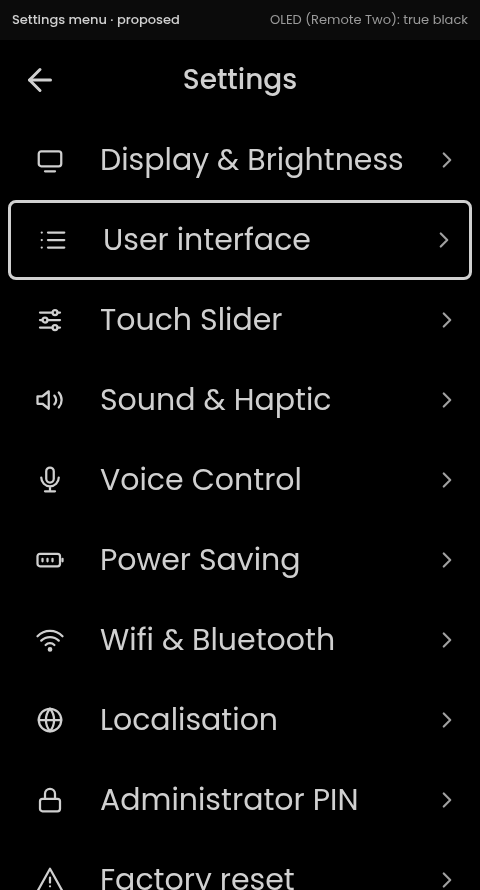
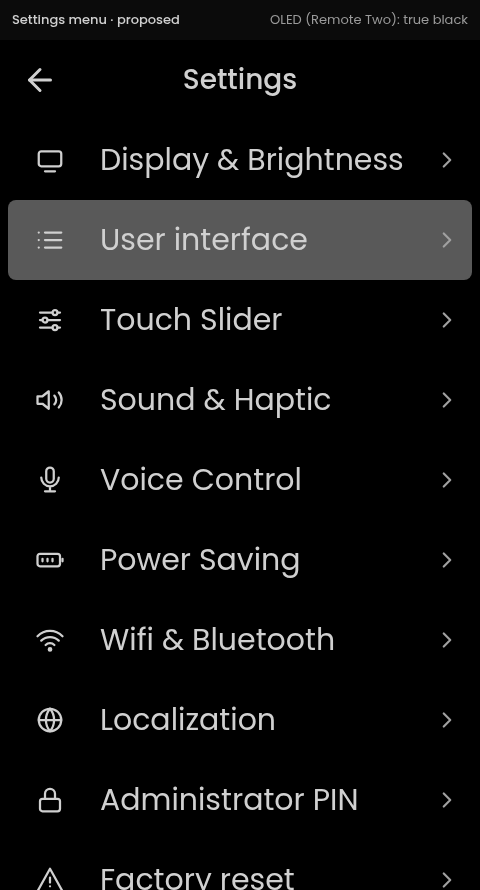
docs: fill in three menus, centred page selector
A review of the implemented selection styles found the ring in the
menus of the profile page, Settings and About harder to follow than the
fill of the main UI: their rows open a page, like a popup menu row, and
read better with the same fill.

The left-aligned page selector rows in the label role were too small
for what is the main way to switch pages. The page names stay centred,
now in the display role at 56 px, the smallest Light size the type
rules allow. The page selector also marks its current page with the
fill after a touch, the one exception to the keypad-active rule, so
the user sees which page is shown.

New mockups show the three menus and the page selector.

Changed region(s): [[0.0, 0.2124, 1.0, 0.3337], [0.375, 0.7888, 0.5938, 0.8191]]

diff --git a/docs/design-system/mockups/src/profile-menu-proposed.html b/docs/design-system/mockups/src/profile-menu-proposed.html
@@ -1,0 +1,88 @@
+<!doctype html>
+<html lang="en">
+<head>
+  <meta charset="utf-8">
+  <title>Profile menu, proposed</title>
+  <style>
+    body { margin: 0; background: #000000; }
+    a { color: #C8C8C8; } a:hover { color: #FFFFFF; }
+    * { box-sizing: border-box; }
+    .label-lcd { display: none; }
+    html.lcd .label-lcd { display: inline; }
+    html.lcd .label-oled { display: none; }
+    html.lcd .panel { filter: contrast(0.86) brightness(1.02); }
+  </style>
+  <script>if (/[?&]lcd\b/.test(location.search)) document.documentElement.classList.add('lcd');</script>
+</head>
+<body>
+<div style="width: 480px; display: flex; flex-direction: column; gap: 0; background: #000000;">
+  <div style="height: 40px; display: flex; align-items: center; justify-content: space-between; padding: 0 12px; background: #0B0B0B; font-family: Poppins, 'Segoe UI', Helvetica, Arial, sans-serif; font-size: 13px; color: #9A9A9A;">
+    <span style="font-weight: 500; color: #D0D0D0;">Profile menu · proposed</span>
+    <span class="label-oled">OLED (Remote Two): true black</span><span class="label-lcd">LCD simulation (Remote 3): raised black, softer white</span>
+  </div>
+  <div class="panel" style="background: #000000;">
+<div style="width: 480px; height: 850px; position: relative; overflow: hidden; background: #000000; font-family: Poppins, 'Segoe UI', Helvetica, Arial, sans-serif; color: #D0D0D0; display: flex; flex-direction: column;">
+<div style="height: 80px; flex: none; display: flex; align-items: center; position: relative;">
+<div style="width: 80px; height: 80px; display: flex; align-items: center; justify-content: center;"></div>
+<div style="position: absolute; left: 80px; right: 80px; text-align: center; font-size: 28px; font-weight: 500; color: #D0D0D0;"></div>
+<div style="width: 80px; height: 80px; margin-left: auto; display: flex; align-items: center; justify-content: center;"><svg width="36" height="36" viewBox="0 0 24 24" fill="none" stroke="#D0D0D0" stroke-width="2.4" stroke-linecap="round" style="flex: none; display: block;">
+<path d="M6 6l12 12M18 6L6 18"></path>
+</svg></div>
+</div>
+<div style="padding: 0 20px; font-size: 26px; color: #A0A0A0; flex: none;">Your current profile</div>
+<div style="height: 100px; flex: none; display: flex; align-items: center; gap: 24px; padding: 0 20px;">
+<div style="width: 50px; height: 50px; border-radius: 25px; background: #D0D0D0; color: #000; font-size: 30px; font-weight: 600; display: flex; align-items: center; justify-content: center;">?</div>
+<div style="font-size: 50px; color: #D0D0D0; flex: 1;">Kusi</div><svg width="26" height="26" viewBox="0 0 24 24" fill="none" stroke="#A0A0A0" stroke-width="2" stroke-linecap="round" stroke-linejoin="round" style="flex: none; display: block;">
+<path d="M9 6l6 6-6 6"></path>
+</svg>
+</div>
+<div style="margin: 0 20px 20px; padding: 20px; border: 2px solid #3A3A3A; border-radius: 8px; flex: none;">
+<div style="display: flex; align-items: center; gap: 16px;">
+<div style="font-size: 26px; color: #A0A0A0; flex: 1;">Web configurator enabled</div>
+<div style="width: 90px; height: 50px; border-radius: 25px; background: #2C2C2C; position: relative;">
+<div style="position: absolute; right: 5px; top: 5px; width: 40px; height: 40px; border-radius: 20px; background: #D0D0D0;"></div></div>
+</div>
+<div style="font-family: 'Space Mono', monospace; font-size: 26px; color: #D0D0D0; margin: 12px 0 16px; overflow-wrap: anywhere;">http://192.168.1.25/<wbr>configurator</div>
+<div style="display: flex; align-items: center; gap: 12px;"><div style="width: 44px; height: 60px; border: 2px solid #3A3A3A; border-radius: 8px; display: flex; align-items: center; justify-content: center; font-size: 26px; color: #D0D0D0;">•</div><div style="width: 44px; height: 60px; border: 2px solid #3A3A3A; border-radius: 8px; display: flex; align-items: center; justify-content: center; font-size: 26px; color: #D0D0D0;">•</div><div style="width: 44px; height: 60px; border: 2px solid #3A3A3A; border-radius: 8px; display: flex; align-items: center; justify-content: center; font-size: 26px; color: #D0D0D0;">•</div><div style="width: 44px; height: 60px; border: 2px solid #3A3A3A; border-radius: 8px; display: flex; align-items: center; justify-content: center; font-size: 26px; color: #D0D0D0;">•</div>
+<svg width="36" height="36" viewBox="0 0 24 24" fill="none" stroke="#A0A0A0" stroke-width="2.2" stroke-linecap="round" stroke-linejoin="round" style="flex: none; display: block; margin-left: 12px;"><path d="M20 12a8 8 0 11-2.3-5.7"></path><path d="M20 4v5h-5"></path></svg>
+<div style="flex: 1;"></div>
+<div style="display: grid; grid-template-columns: repeat(10, 6px);"><div style="width: 6px; height: 6px; background: #D0D0D0;"></div><div style="width: 6px; height: 6px; background: #000;"></div><div style="width: 6px; height: 6px; background: #D0D0D0;"></div><div style="width: 6px; height: 6px; background: #000;"></div><div style="width: 6px; height: 6px; background: #D0D0D0;"></div><div style="width: 6px; height: 6px; background: #D0D0D0;"></div><div style="width: 6px; height: 6px; background: #000;"></div><div style="width: 6px; height: 6px; background: #D0D0D0;"></div><div style="width: 6px; height: 6px; background: #000;"></div><div style="width: 6px; height: 6px; background: #D0D0D0;"></div><div style="width: 6px; height: 6px; background: #D0D0D0;"></div><div style="width: 6px; height: 6px; background: #D0D0D0;"></div><div style="width: 6px; height: 6px; background: #000;"></div><div style="width: 6px; height: 6px; background: #D0D0D0;"></div><div style="width: 6px; height: 6px; background: #000;"></div><div style="width: 6px; height: 6px; background: #D0D0D0;"></div><div style="width: 6px; height: 6px; background: #D0D0D0;"></div><div style="width: 6px; height: 6px; background: #000;"></div><div style="width: 6px; height: 6px; background: #D0D0D0;"></div><div style="width: 6px; height: 6px; background: #000;"></div><div style="width: 6px; height: 6px; background: #000;"></div><div style="width: 6px; height: 6px; background: #D0D0D0;"></div><div style="width: 6px; height: 6px; background: #D0D0D0;"></div><div style="width: 6px; height: 6px; background: #000;"></div><div style="width: 6px; height: 6px; background: #D0D0D0;"></div><div style="width: 6px; height: 6px; background: #000;"></div><div style="width: 6px; height: 6px; background: #D0D0D0;"></div><div style="width: 6px; height: 6px; background: #D0D0D0;"></div><div style="width: 6px; height: 6px; background: #000;"></div><div style="width: 6px; height: 6px; background: #D0D0D0;"></div><div style="width: 6px; height: 6px; background: #D0D0D0;"></div><div style="width: 6px; height: 6px; background: #000;"></div><div style="width: 6px; height: 6px; background: #D0D0D0;"></div><div style="width: 6px; height: 6px; background: #D0D0D0;"></div><div style="width: 6px; height: 6px; background: #000;"></div><div style="width: 6px; height: 6px; background: #D0D0D0;"></div><div style="width: 6px; height: 6px; background: #000;"></div><div style="width: 6px; height: 6px; background: #D0D0D0;"></div><div style="width: 6px; height: 6px; background: #D0D0D0;"></div><div style="width: 6px; height: 6px; background: #000;"></div><div style="width: 6px; height: 6px; background: #000;"></div><div style="width: 6px; height: 6px; background: #D0D0D0;"></div><div style="width: 6px; height: 6px; background: #000;"></div><div style="width: 6px; height: 6px; background: #D0D0D0;"></div><div style="width: 6px; height: 6px; background: #D0D0D0;"></div><div style="width: 6px; height: 6px; background: #000;"></div><div style="width: 6px; height: 6px; background: #D0D0D0;"></div><div style="width: 6px; height: 6px; background: #000;"></div><div style="width: 6px; height: 6px; background: #D0D0D0;"></div><div style="width: 6px; height: 6px; background: #D0D0D0;"></div><div style="width: 6px; height: 6px; background: #D0D0D0;"></div><div style="width: 6px; height: 6px; background: #000;"></div><div style="width: 6px; height: 6px; background: #D0D0D0;"></div><div style="width: 6px; height: 6px; background: #000;"></div><div style="width: 6px; height: 6px; background: #D0D0D0;"></div><div style="width: 6px; height: 6px; background: #D0D0D0;"></div><div style="width: 6px; height: 6px; background: #000;"></div><div style="width: 6px; height: 6px; background: #D0D0D0;"></div><div style="width: 6px; height: 6px; background: #000;"></div><div style="width: 6px; height: 6px; background: #D0D0D0;"></div><div style="width: 6px; height: 6px; background: #D0D0D0;"></div><div style="width: 6px; height: 6px; background: #D0D0D0;"></div><div style="width: 6px; height: 6px; background: #000;"></div><div style="width: 6px; height: 6px; background: #D0D0D0;"></div><div style="width: 6px; height: 6px; background: #000;"></div><div style="width: 6px; height: 6px; background: #D0D0D0;"></div><div style="width: 6px; height: 6px; background: #D0D0D0;"></div><div style="width: 6px; height: 6px; background: #000;"></div><div style="width: 6px; height: 6px; background: #D0D0D0;"></div><div style="width: 6px; height: 6px; background: #000;"></div><div style="width: 6px; height: 6px; background: #000;"></div><div style="width: 6px; height: 6px; background: #D0D0D0;"></div><div style="width: 6px; height: 6px; background: #D0D0D0;"></div><div style="width: 6px; height: 6px; background: #000;"></div><div style="width: 6px; height: 6px; background: #D0D0D0;"></div><div style="width: 6px; height: 6px; background: #000;"></div><div style="width: 6px; height: 6px; background: #D0D0D0;"></div><div style="width: 6px; height: 6px; background: #D0D0D0;"></div><div style="width: 6px; height: 6px; background: #000;"></div><div style="width: 6px; height: 6px; background: #D0D0D0;"></div><div style="width: 6px; height: 6px; background: #D0D0D0;"></div><div style="width: 6px; height: 6px; background: #000;"></div><div style="width: 6px; height: 6px; background: #D0D0D0;"></div><div style="width: 6px; height: 6px; background: #D0D0D0;"></div><div style="width: 6px; height: 6px; background: #000;"></div><div style="width: 6px; height: 6px; background: #D0D0D0;"></div><div style="width: 6px; height: 6px; background: #000;"></div><div style="width: 6px; height: 6px; background: #D0D0D0;"></div><div style="width: 6px; height: 6px; background: #D0D0D0;"></div><div style="width: 6px; height: 6px; background: #000;"></div><div style="width: 6px; height: 6px; background: #000;"></div><div style="width: 6px; height: 6px; background: #D0D0D0;"></div><div style="width: 6px; height: 6px; background: #000;"></div><div style="width: 6px; height: 6px; background: #D0D0D0;"></div><div style="width: 6px; height: 6px; background: #D0D0D0;"></div><div style="width: 6px; height: 6px; background: #000;"></div><div style="width: 6px; height: 6px; background: #D0D0D0;"></div><div style="width: 6px; height: 6px; background: #000;"></div><div style="width: 6px; height: 6px; background: #D0D0D0;"></div><div style="width: 6px; height: 6px; background: #D0D0D0;"></div></div>
+</div>
+</div>
+<div style="display: flex; flex-direction: column; flex: 1; overflow: hidden;">
+<div style="height: 80px; flex: none; display: flex; align-items: center; gap: 16px; border-radius: 8px; margin: 0 8px; padding: 0 12px; background: #595959;">
+<div style="font-size: 30px; color: #D0D0D0;">Software update</div>
+<div style="flex: 1;"></div><svg width="26" height="26" viewBox="0 0 24 24" fill="none" stroke="#A0A0A0" stroke-width="2" stroke-linecap="round" stroke-linejoin="round" style="flex: none; display: block;">
+<path d="M9 6l6 6-6 6"></path>
+</svg>
+</div>
+<div style="height: 80px; flex: none; display: flex; align-items: center; gap: 16px; border-radius: 8px; margin: 0 8px; padding: 0 12px; background: transparent;">
+<div style="font-size: 30px; color: #D0D0D0;">Settings</div>
+<div style="flex: 1;"></div><svg width="26" height="26" viewBox="0 0 24 24" fill="none" stroke="#A0A0A0" stroke-width="2" stroke-linecap="round" stroke-linejoin="round" style="flex: none; display: block;">
+<path d="M9 6l6 6-6 6"></path>
+</svg>
+</div>
+<div style="height: 80px; flex: none; display: flex; align-items: center; gap: 16px; border-radius: 8px; margin: 0 8px; padding: 0 12px; background: transparent;">
+<div style="font-size: 30px; color: #D0D0D0;">Integrations</div><div style="min-width: 40px; height: 40px; padding: 0 10px; border-radius: 20px; background: #3A3A3A; font-size: 22px; display: flex; align-items: center; justify-content: center; color: #D0D0D0;">16</div>
+<div style="flex: 1;"></div><svg width="26" height="26" viewBox="0 0 24 24" fill="none" stroke="#A0A0A0" stroke-width="2" stroke-linecap="round" stroke-linejoin="round" style="flex: none; display: block;">
+<path d="M9 6l6 6-6 6"></path>
+</svg>
+</div>
+<div style="height: 80px; flex: none; display: flex; align-items: center; gap: 16px; border-radius: 8px; margin: 0 8px; padding: 0 12px; background: transparent;">
+<div style="font-size: 30px; color: #D0D0D0;">Docks</div><div style="min-width: 40px; height: 40px; padding: 0 10px; border-radius: 20px; background: #3A3A3A; font-size: 22px; display: flex; align-items: center; justify-content: center; color: #D0D0D0;">3</div>
+<div style="flex: 1;"></div><svg width="26" height="26" viewBox="0 0 24 24" fill="none" stroke="#A0A0A0" stroke-width="2" stroke-linecap="round" stroke-linejoin="round" style="flex: none; display: block;">
+<path d="M9 6l6 6-6 6"></path>
+</svg>
+</div>
+<div style="height: 80px; flex: none; display: flex; align-items: center; gap: 16px; border-radius: 8px; margin: 0 8px; padding: 0 12px; background: transparent;">
+<div style="font-size: 30px; color: #D0D0D0;">About</div>
+<div style="flex: 1;"></div><svg width="26" height="26" viewBox="0 0 24 24" fill="none" stroke="#A0A0A0" stroke-width="2" stroke-linecap="round" stroke-linejoin="round" style="flex: none; display: block;">
+<path d="M9 6l6 6-6 6"></path>
+</svg>
+</div>
+</div>
+</div>
+  </div>
+</div>
+</body>
+</html>

diff --git a/docs/design-system/mockups/src/about-proposed.html b/docs/design-system/mockups/src/about-proposed.html
@@ -1,0 +1,81 @@
+<!doctype html>
+<html lang="en">
+<head>
+  <meta charset="utf-8">
+  <title>About, proposed</title>
+  <style>
+    body { margin: 0; background: #000000; }
+    a { color: #C8C8C8; } a:hover { color: #FFFFFF; }
+    * { box-sizing: border-box; }
+    .label-lcd { display: none; }
+    html.lcd .label-lcd { display: inline; }
+    html.lcd .label-oled { display: none; }
+    html.lcd .panel { filter: contrast(0.86) brightness(1.02); }
+  </style>
+  <script>if (/[?&]lcd\b/.test(location.search)) document.documentElement.classList.add('lcd');</script>
+</head>
+<body>
+<div style="width: 480px; display: flex; flex-direction: column; gap: 0; background: #000000;">
+  <div style="height: 40px; display: flex; align-items: center; justify-content: space-between; padding: 0 12px; background: #0B0B0B; font-family: Poppins, 'Segoe UI', Helvetica, Arial, sans-serif; font-size: 13px; color: #9A9A9A;">
+    <span style="font-weight: 500; color: #D0D0D0;">About · proposed</span>
+    <span class="label-oled">OLED (Remote Two): true black</span><span class="label-lcd">LCD simulation (Remote 3): raised black, softer white</span>
+  </div>
+  <div class="panel" style="background: #000000;">
+<div style="width: 480px; height: 850px; position: relative; overflow: hidden; background: #000000; font-family: Poppins, 'Segoe UI', Helvetica, Arial, sans-serif; color: #D0D0D0; display: flex; flex-direction: column;">
+<div style="height: 80px; flex: none; display: flex; align-items: center; position: relative;">
+<div style="width: 80px; height: 80px; display: flex; align-items: center; justify-content: center;"><svg width="36" height="36" viewBox="0 0 24 24" fill="none" stroke="#D0D0D0" stroke-width="2" stroke-linecap="round" stroke-linejoin="round" style="flex: none; display: block;">
+<path d="M19 12H5"></path>
+<path d="M12 19l-7-7 7-7"></path>
+</svg></div>
+<div style="position: absolute; left: 80px; right: 80px; text-align: center; font-size: 28px; font-weight: 500; color: #D0D0D0;">About</div>
+<div style="width: 80px; height: 80px; margin-left: auto; display: flex; align-items: center; justify-content: center;"></div>
+</div><div style="display: flex; flex-direction: column; flex: 1; overflow: hidden;"><div style="padding: 8px 20px; flex: none; display: flex; align-items: center; gap: 20px;">
+<div style="font-size: 26px; line-height: 40px; color: #A0A0A0; flex: none;">Model number</div>
+<div style="font-family: 'Space Mono', monospace; font-size: 26px; line-height: 39px; color: #D0D0D0; flex: 1; text-align: right; white-space: nowrap; overflow: hidden; text-overflow: ellipsis;">UCR3</div>
+</div><div style="height: 2px; flex: none; margin: 0 20px; background: #3A3A3A;"></div><div style="padding: 8px 20px; flex: none; display: flex; align-items: center; gap: 20px;">
+<div style="font-size: 26px; line-height: 40px; color: #A0A0A0; flex: none;">Serial number</div>
+<div style="font-family: 'Space Mono', monospace; font-size: 26px; line-height: 39px; color: #D0D0D0; flex: 1; text-align: right; white-space: nowrap; overflow: hidden; text-overflow: ellipsis;">61D2X4K8</div>
+</div><div style="height: 2px; flex: none; margin: 0 20px; background: #3A3A3A;"></div><div style="padding: 8px 20px; flex: none; display: flex; align-items: center; gap: 20px;">
+<div style="font-size: 26px; line-height: 40px; color: #A0A0A0; flex: none;">Revision</div>
+<div style="font-family: 'Space Mono', monospace; font-size: 26px; line-height: 39px; color: #D0D0D0; flex: 1; text-align: right; white-space: nowrap; overflow: hidden; text-overflow: ellipsis;">rev3</div>
+</div><div style="height: 2px; flex: none; margin: 0 20px; background: #3A3A3A;"></div><div style="padding: 8px 20px; flex: none;">
+<div style="font-size: 26px; line-height: 40px; color: #A0A0A0;">Wi-Fi address</div>
+<div style="font-family: 'Space Mono', monospace; font-size: 26px; line-height: 39px; color: #D0D0D0; margin-top: 4px;">d8:10:68:86:14:d2</div>
+</div><div style="height: 2px; flex: none; margin: 0 20px; background: #3A3A3A;"></div><div style="padding: 8px 20px; flex: none;">
+<div style="font-size: 26px; line-height: 40px; color: #A0A0A0;">Bluetooth address</div>
+<div style="font-family: 'Space Mono', monospace; font-size: 26px; line-height: 39px; color: #D0D0D0; margin-top: 4px;">D8:10:68:86:14:D3</div>
+</div><div style="height: 2px; flex: none; margin: 0 20px; background: #3A3A3A;"></div><div style="padding: 8px 20px; flex: none; display: flex; align-items: center; gap: 20px;">
+<div style="font-size: 26px; line-height: 40px; color: #A0A0A0; flex: none;">UI version</div>
+<div style="font-family: 'Space Mono', monospace; font-size: 26px; line-height: 39px; color: #D0D0D0; flex: 1; text-align: right; white-space: nowrap; overflow: hidden; text-overflow: ellipsis;">0.84.0</div>
+</div><div style="height: 2px; flex: none; margin: 0 20px; background: #3A3A3A;"></div><div style="padding: 8px 20px; flex: none; display: flex; align-items: center; gap: 20px;">
+<div style="font-size: 26px; line-height: 40px; color: #A0A0A0; flex: none;">Core version</div>
+<div style="font-family: 'Space Mono', monospace; font-size: 26px; line-height: 39px; color: #D0D0D0; flex: 1; text-align: right; white-space: nowrap; overflow: hidden; text-overflow: ellipsis;">0.82.0</div>
+</div><div style="height: 2px; flex: none; margin: 0 20px; background: #3A3A3A;"></div><div style="padding: 8px 20px; flex: none; display: flex; align-items: center; gap: 20px;">
+<div style="font-size: 26px; line-height: 40px; color: #A0A0A0; flex: none;">System version</div>
+<div style="font-family: 'Space Mono', monospace; font-size: 26px; line-height: 39px; color: #D0D0D0; flex: 1; text-align: right; white-space: nowrap; overflow: hidden; text-overflow: ellipsis;">2.12.0</div>
+</div><div style="height: 20px; flex: none;"></div><div style="height: 80px; flex: none; display: flex; align-items: center; gap: 16px; border-radius: 8px; margin: 0 8px; padding: 0 12px; background: #595959;">
+<div style="font-size: 30px; color: #D0D0D0;">Regulatory</div>
+<div style="flex: 1;"></div><svg width="26" height="26" viewBox="0 0 24 24" fill="none" stroke="#A0A0A0" stroke-width="2" stroke-linecap="round" stroke-linejoin="round" style="flex: none; display: block;">
+<path d="M9 6l6 6-6 6"></path>
+</svg>
+</div><div style="height: 80px; flex: none; display: flex; align-items: center; gap: 16px; border-radius: 8px; margin: 0 8px; padding: 0 12px; background: transparent;">
+<div style="font-size: 30px; color: #D0D0D0;">Terms &amp; conditions</div>
+<div style="flex: 1;"></div><svg width="26" height="26" viewBox="0 0 24 24" fill="none" stroke="#A0A0A0" stroke-width="2" stroke-linecap="round" stroke-linejoin="round" style="flex: none; display: block;">
+<path d="M9 6l6 6-6 6"></path>
+</svg>
+</div><div style="height: 80px; flex: none; display: flex; align-items: center; gap: 16px; border-radius: 8px; margin: 0 8px; padding: 0 12px; background: transparent;">
+<div style="font-size: 30px; color: #D0D0D0;">Warranty information</div>
+<div style="flex: 1;"></div><svg width="26" height="26" viewBox="0 0 24 24" fill="none" stroke="#A0A0A0" stroke-width="2" stroke-linecap="round" stroke-linejoin="round" style="flex: none; display: block;">
+<path d="M9 6l6 6-6 6"></path>
+</svg>
+</div><div style="height: 80px; flex: none; display: flex; align-items: center; gap: 16px; border-radius: 8px; margin: 0 8px; padding: 0 12px; background: transparent;">
+<div style="font-size: 30px; color: #D0D0D0;">Licenses</div>
+<div style="flex: 1;"></div><svg width="26" height="26" viewBox="0 0 24 24" fill="none" stroke="#A0A0A0" stroke-width="2" stroke-linecap="round" stroke-linejoin="round" style="flex: none; display: block;">
+<path d="M9 6l6 6-6 6"></path>
+</svg>
+</div></div>
+</div>
+  </div>
+</div>
+</body>
+</html>

diff --git a/docs/design-system/mockups/src/page-selector-proposed.html b/docs/design-system/mockups/src/page-selector-proposed.html
@@ -1,0 +1,47 @@
+<!doctype html>
+<html lang="en">
+<head>
+  <meta charset="utf-8">
+  <title>Page selector, proposed</title>
+  <style>
+    body { margin: 0; background: #000000; }
+    a { color: #C8C8C8; } a:hover { color: #FFFFFF; }
+    * { box-sizing: border-box; }
+    .label-lcd { display: none; }
+    html.lcd .label-lcd { display: inline; }
+    html.lcd .label-oled { display: none; }
+    html.lcd .panel { filter: contrast(0.86) brightness(1.02); }
+  </style>
+  <script>if (/[?&]lcd\b/.test(location.search)) document.documentElement.classList.add('lcd');</script>
+</head>
+<body>
+<div style="width: 480px; display: flex; flex-direction: column; gap: 0; background: #000000;">
+  <div style="height: 40px; display: flex; align-items: center; justify-content: space-between; padding: 0 12px; background: #0B0B0B; font-family: Poppins, 'Segoe UI', Helvetica, Arial, sans-serif; font-size: 13px; color: #9A9A9A;">
+    <span style="font-weight: 500; color: #D0D0D0;">Page selector · proposed</span>
+    <span class="label-oled">OLED (Remote Two): true black</span><span class="label-lcd">LCD simulation (Remote 3): raised black, softer white</span>
+  </div>
+  <div class="panel" style="background: #000000;">
+<div style="width: 480px; height: 850px; position: relative; overflow: hidden; background: #000000; font-family: Poppins, 'Segoe UI', Helvetica, Arial, sans-serif; color: #D0D0D0; display: flex; flex-direction: column;">
+<div style="height: 80px; flex: none; display: flex; align-items: center; position: relative;">
+<div style="width: 80px; height: 80px; display: flex; align-items: center; justify-content: center;"></div>
+<div style="position: absolute; left: 80px; right: 80px; text-align: center; font-size: 28px; font-weight: 500; color: #D0D0D0;">Select page</div>
+<div style="width: 80px; height: 80px; margin-left: auto; display: flex; align-items: center; justify-content: center;"><svg width="30" height="30" viewBox="0 0 24 24" fill="none" stroke="#A0A0A0" stroke-width="2" stroke-linecap="round" stroke-linejoin="round" style="flex: none; display: block;">
+<path d="M11 4H4a2 2 0 00-2 2v14a2 2 0 002 2h14a2 2 0 002-2v-7"></path>
+<path d="M18.5 2.5a2.1 2.1 0 013 3L12 15l-4 1 1-4z"></path>
+</svg></div>
+</div><div style="display: flex; flex-direction: column; flex: 1; overflow: hidden;"><div style="height: 150px; flex: none; display: flex; align-items: center; justify-content: center; border-radius: 8px; margin: 0 8px; padding: 0 12px; background: transparent;">
+<div style="font-size: 56px; font-weight: 300; line-height: 1.05; text-align: center; color: #D0D0D0;">Living room</div>
+</div><div style="height: 150px; flex: none; display: flex; align-items: center; justify-content: center; border-radius: 8px; margin: 0 8px; padding: 0 12px; background: #595959;">
+<div style="font-size: 56px; font-weight: 300; line-height: 1.05; text-align: center; color: #D0D0D0;">Kitchen</div>
+</div><div style="height: 150px; flex: none; display: flex; align-items: center; justify-content: center; border-radius: 8px; margin: 0 8px; padding: 0 12px; background: transparent;">
+<div style="font-size: 56px; font-weight: 300; line-height: 1.05; text-align: center; color: #D0D0D0;">Bedroom</div>
+</div><div style="height: 150px; flex: none; display: flex; align-items: center; justify-content: center; border-radius: 8px; margin: 0 8px; padding: 0 12px; background: transparent;">
+<div style="font-size: 56px; font-weight: 300; line-height: 1.05; text-align: center; color: #D0D0D0;">Movie night</div>
+</div><div style="height: 150px; flex: none; display: flex; align-items: center; justify-content: center; border-radius: 8px; margin: 0 8px; padding: 0 12px; background: transparent;">
+<div style="font-size: 56px; font-weight: 300; line-height: 1.05; text-align: center; color: #D0D0D0;">Kids room</div>
+</div></div>
+</div>
+  </div>
+</div>
+</body>
+</html>

diff --git a/docs/design-system/mockups/src/settings-menu-proposed.html b/docs/design-system/mockups/src/settings-menu-proposed.html
@@ -44,7 +44,7 @@
 <path d="M9 6l6 6-6 6"></path>
 </svg>
 </div>
-<div style="height: 80px; flex: none; display: flex; align-items: center; gap: 20px; border-radius: 8px; margin: 0 8px; padding: 0 12px; border-width: 3px; border-style: solid; border-color: #D0D0D0">
+<div style="height: 80px; flex: none; display: flex; align-items: center; gap: 20px; border-radius: 8px; margin: 0 8px; padding: 0 12px; background: #595959;">
 <div style="width: 60px; height: 60px; display: flex; align-items: center; justify-content: center;">
 <svg width="30" height="30" viewBox="0 0 24 24" fill="none" stroke="#D0D0D0" stroke-width="1.8" stroke-linecap="round" stroke-linejoin="round" style="flex: none; display: block;">
 <path d="M8 6h13M8 12h13M8 18h13"></path>
@@ -126,7 +126,7 @@
 <path d="M3 12h18M12 3a14 14 0 010 18M12 3a14 14 0 000 18"></path>
 </svg>
 </div>
-<div style="font-size: 30px; color: #D0D0D0; flex: 1;">Localisation</div>
+<div style="font-size: 30px; color: #D0D0D0; flex: 1;">Localization</div>
 <svg width="26" height="26" viewBox="0 0 24 24" fill="none" stroke="#A0A0A0" stroke-width="2" stroke-linecap="round" stroke-linejoin="round" style="flex: none; display: block;">
 <path d="M9 6l6 6-6 6"></path>
 </svg>

diff --git a/docs/design-system.md b/docs/design-system.md
@@ -34,9 +34,10 @@ so a screen that fills the mockup height has 50 px less on the Remote 3.
    palette.
 2. **Text meets AA at its size, with margin.** Secondary text at least 8:1 on black, primary 13.6:1.
    Nothing below 22 px, and 22 px only for captions.
-3. **Two selection styles, one per layer.** On the main UI the selected tile or menu row gets a
-   lighter fill. In settings the selected row or control gets a 3 px ring. Never both on one
-   element, and never a fill dark enough to vanish on the LCD.
+3. **Two selection styles, one per layer.** On the main UI, and in the menus of the profile page,
+   Settings and About, the selected tile or menu row gets a lighter fill. Elsewhere in settings the
+   selected row or control gets a 3 px ring. Never both on one element, and never a fill dark enough
+   to vanish on the LCD.
 4. **Emphasis by token, never by opacity.** Opacity is for disabled controls (0.4) and dim layers
    (0.85) only.
 5. **Sans for reading, mono for data.** Poppins for titles, labels, prose, help and buttons. Space
@@ -53,7 +54,7 @@ so a screen that fills the mockup height has 50 px less on the Remote 3.
 | `textOnButton`    | #FFFFFF | 6.9:1 on primary | offwhite label        | Primary and destructive button labels                      |
 | `surface`         | #1E1E1E | 1.26:1   | `dark` #161616, `secondaryButton` | Cards, fields, secondary buttons                       |
 | `surfaceRaised`   | #2C2C2C | 1.5:1    | `medium` #232323              | Popup cards over a dim, switch and slider tracks           |
-| `surfaceSelected` | #595959 | 3.0:1    | new                           | Fill of the selected tile or menu row on the main UI. Never with a ring. Provisional, see Q-3 |
+| `surfaceSelected` | #595959 | 3.0:1    | new                           | Fill of the selected tile or menu row on the main UI and in the profile, Settings and About menus. Never with a ring. Provisional, see Q-3 |
 | `divider`         | #3A3A3A | 1.85:1   | `medium`                      | 2 px separators, secondary button outline, sheet edge      |
 | `focusRing`       | #D0D0D0 | 13.6:1   | `highlight` #C8C8C8           | 3 px ring on the selected settings row or control, and on buttons |
 | `buttonPrimary`   | #5A5A5A | -        | `primaryButton`               | Primary button fill                                        |
@@ -81,7 +82,7 @@ Rules:
 | Caption         | Poppins 22 Regular                  | `textSecondary`              | Timestamps, badges, tab labels. Smallest size allowed       |
 | Value           | Space Mono 26 Regular               | `textPrimary`                | Versions, IP and MAC addresses, times, units, PIN, URLs     |
 | Button          | Poppins 26 Medium                   | `textOnButton` / `textPrimary` | All buttons                                               |
-| Display         | Poppins 56 / 90 / 180 Light         | `textPrimary`                | Sensor values, entity states, volume                        |
+| Display         | Poppins 56 / 90 / 180 Light         | `textPrimary`                | Sensor values, entity states, volume; page names in the page selector (56) |
 
 Rules:
 
@@ -100,7 +101,8 @@ Rules:
 - **Title bar 80 px:** 80 x 80 back or close target at the edge, title centred. One component for
   pages, sheets and dialogs; onboarding uses it without the back target.
 - **Row heights** 80 (one line), 110 (two lines), 130 (tiles). Setting sections with help text size
-  to content with 14 px vertical padding. Reorder rows with a handle may be 150.
+  to content with 14 px vertical padding. Reorder rows with a handle may be 150. The page selector's
+  rows are 150 with the page name centred in the display role at 56 px, up to two lines.
 - **Dividers** 2 px `divider`, inset 20, between sections and between rows that are not cards.
 - **Radii** `ui.cornerRadiusSmall` (8) for rows, tiles, buttons, cards; `ui.cornerRadiusLarge` (22)
   for fields, sheets, popups. No literals.
@@ -119,12 +121,14 @@ Rules:
 ## 6. Selection and state contract
 
 Every selection is bound to `ui.keyNavigationActive`: invisible after a touch, visible from the first
-key press. There are two styles, and the layer a screen belongs to decides which one it uses.
+key press. The one exception is the page selector: it shows its current page with the fill also after
+a touch, to mark which page is shown. There are two styles, and the layer a screen belongs to decides
+which one it uses.
 
 | Style | Looks like | Used on |
 | ----- | ---------- | ------- |
-| **Fill** | `surfaceSelected` fill on the whole tile or row, no ring, no border | The main UI: entity and group tiles on a page, popup menu rows (page menu and every other `PopupMenu`), page selector rows, profile switcher rows |
-| **Ring** | 3 px `focusRing` around the selected element, no fill | Settings and set-up flows: settings and profile menus, settings rows and controls, picker lists (`PopupList`: language, country, timezone, dropdowns), dock and integration lists, onboarding steps; buttons everywhere |
+| **Fill** | `surfaceSelected` fill on the whole tile or row, no ring, no border | The main UI: entity and group tiles on a page, popup menu rows (page menu and every other `PopupMenu`), page selector rows, profile switcher rows. In settings, the menus whose rows open a page with a chevron: the profile page, Settings and About |
+| **Ring** | 3 px `focusRing` around the selected element, no fill | Settings and set-up flows: settings rows and controls, picker lists (`PopupList`: language, country, timezone, dropdowns), dock and integration lists, onboarding steps; buttons everywhere |
 
 The tiles, rows and menus named in the mockups are decided. The other assignments in the table are
 the proposed mapping and still need confirmation (section 11, Q-1).
@@ -140,7 +144,7 @@ the proposed mapping and still need confirmation (section 11, Q-1).
   including text that is `textSecondary` at rest, such as a tile's state line: `textSecondary` would
   drop to 2.7:1.
 - Entering a screen by key preselects the first actionable element (`initialFocusItem` or a
-  selection reset). Entering by touch preselects nothing.
+  selection reset). Entering by touch preselects nothing, except the page selector's current page.
 - The selected element stays inside the middle 70 % of the viewport. When the focus chain ends,
   the page scrolls by half its height.
 - **Pressed** inverts the element: `textPrimary` fill, and every label, icon and chevron on it in
@@ -198,7 +202,7 @@ changes reference them. This document stays the reference for how a screen looks
 | ID  | Decision                                                           | Status |
 | --- | ------------------------------------------------------------------ | ------ |
 | D-1 | Help text and prose in Poppins; Space Mono stays the value face    | Accepted |
-| D-2 | Selection style: fill on the main UI, ring in settings, never both | Accepted, amended by the designer. Proposed: ring plus fill everywhere |
+| D-2 | Selection style: fill on the main UI and in the profile, Settings and About menus, ring elsewhere in settings, never both | Accepted, amended by the designer, then for the three menus. Proposed: ring plus fill everywhere |
 | D-3 | In settings the ring marks the control, not the whole section      | Accepted, amended by the designer. Proposed: the whole section |
 | D-4 | Title bar 80 px with Poppins 28 Medium                             | Accepted |
 | D-5 | Home tiles black at rest; a selected tile gets the `surfaceSelected` fill, no ring | Accepted, amended by the designer. Proposed: ring plus fill. Fill value provisional (Q-3) |
@@ -213,7 +217,7 @@ Close row instead of a secondary button. The page menu sheet is black with a div
 
 | ID  | Question | Proposed answer |
 | --- | -------- | --------------- |
-| Q-1 | Which screens beyond the mockups use the fill style and which the ring style? | The mapping in section 6: the fill for tiles, popup menus, page selector and profile switcher; the ring for everything else |
+| Q-1 | Which screens beyond the mockups use the fill style and which the ring style? | The mapping in section 6: the fill for tiles, popup menus, page selector, profile switcher and the profile, Settings and About menus; the ring for everything else |
 | Q-2 | Focus ring colour: the revised screens use #D0D0D0, once at 92 % opacity; the token sheet still shows #C8C8C8 | Opaque #D0D0D0, the same value as `textPrimary` |
 | Q-3 | Is the provisional #595959 fill right on the devices? It replaces the designer's #333333 so the selection is easy to judge on a Remote 3 in a lit room | Check both remotes in phase 2. Darken it towards #333333 if it looks too heavy; text on it stays readable down to that value |
 | Q-4 | Do all bottom sheets become black with a divider edge, or only popup menus on the main UI? | All bottom sheets, one rule: WifiInfo, WifiJoin, DropDownMenu and the delete drawers too |

diff --git a/docs/design-system/audit.md b/docs/design-system/audit.md
@@ -149,7 +149,7 @@ Where the same thing is done in more than one way. Each row names the variants f
 | `I-17` | Scroll affordance | ScrollIndicator; ScrollBar at 0.5; both (AboutPage); none (Ui, Display, Power, Voice, TouchSlider, SoftwareUpdate, Localisation, Wifi, Info popups); scroll step height/2, 100px, 200px | One scroll indicator on every scrolling page; d-pad step = half the viewport |
 | `I-18` | Capitalisation and wording | "Unit System", "Voice Assistant", "Known Networks", "Release Notes" vs "24-hour time", "Speech response", "Check for update"; "Uk"/"Us"; "Led brightness"; "Wifi & Bluetooth" vs "WiFi band" vs "Wifi network"; untranslated "Enabled"/"Disabled" (WifiNetworkList:447), untranslated notification (AdminPin:86) | Sentence case everywhere; "Wi-Fi"; all strings through qsTr |
 | `I-19` | Disabled state | Opacity 0.3 (docks/Info rows, integrations switch, SoftwareUpdate, Configure), 0.5 (tiles, OpenClose), text colour only, mouseArea disabled without any visual (Localisation:451) | Disabled = opacity 0.4 on the whole control, no separate colour |
-| `I-20` | Row alignment | PageSelector rows centred Poppins 50 Light; every other list left-aligned | Rows left-aligned, label 30 Regular |
+| `I-20` | Row alignment | PageSelector rows centred Poppins 50 Light; every other list left-aligned | Rows left-aligned, label 30 Regular; the page selector keeps its page names centred, in the display role at 56 px |
 | `I-21` | Duplicated screens drifting apart | Activity.qml header re-implements BaseTitle; Tv vs Receiver now-playing; four sensor files; four cover classes; five rename dialogs; TouchSlider* four copies; docks and integrations delete drawers | Shared components for header, key/value, form dialog, delete drawer; one sensor and one cover screen with a device-class parameter |
 | `I-22` | Spacing outliers | integrations/Settings.qml:168 spacing 60; Wifi.qml:63 content starts 10px lower; TouchSlider no dividers between sliders; Sound.qml no help text; Voice.qml no divider before "Speech response"; slider sections childrenRect vs +40 | Section spacing 20, dividers between every section, help text on every setting or on none |
 | `I-23` | Colour tokens leaking | `colors.white` in TouchSlider* and TouchSlider test popup; hard-coded hex in keyboard style and light/Brightness.qml:232; `Qt.lighter(mediaImageColor, 3)` progress fills with unpredictable contrast | Only palette tokens in QML; media-tinted fills clamped to at least 4.5:1 on their track |

diff --git a/docs/design-system/mockups/README.md b/docs/design-system/mockups/README.md
@@ -16,11 +16,18 @@ Remote 3 LCD with a raised black and a softer white; the approximation is a visu
 
 | Current | Proposed |
 | ------- | -------- |
-| **Settings menu**: the selected row is a #161616 fill on black. ![Settings menu, current](settings-menu-current.png) | The selected row has a 3 px ring and no fill. ![Settings menu, proposed](settings-menu-proposed.png) |
+| **Settings menu**: the selected row is a #161616 fill on black. ![Settings menu, current](settings-menu-current.png) | The selected row has the #595959 fill and no ring, as on the main UI. ![Settings menu, proposed](settings-menu-proposed.png) |
 | **Display & Brightness**: help text in grey Space Mono 24. ![Display and brightness, current](display-current.png) | The ring sits on the switch; help text in Poppins 26. ![Display and brightness, proposed](display-proposed.png) |
 | **Release notes**: the body in grey Space Mono 24. ![Release notes, current](release-notes-current.png) | Prose in Poppins 26, primary text colour. ![Release notes, proposed](release-notes-proposed.png) |
 | **Home page**: the selected tile is an always-on #111111 fill. ![Home page, current](home-current.png) | The selected tile has the #595959 fill and no ring. ![Home page, proposed](home-proposed.png) |
 | **Page menu** (HOME long press): a #161616 fill on the selected row. ![Page menu, current](page-menu-current.png) | A black sheet with a divider edge, the fill on the selected row, Close as the last row. ![Page menu, proposed](page-menu-proposed.png) |
+
+The menus of the profile page, Settings and About take the fill, and the page selector keeps its
+centred page names, in the display role at 56 px, with the current page filled also after a touch:
+
+| Profile menu | About | Page selector |
+| ------------ | ----- | ------------- |
+| ![Profile menu, proposed](profile-menu-proposed.png) | ![About, proposed](about-proposed.png) | ![Page selector, proposed](page-selector-proposed.png) |
 
 ## Design sheet
 

diff --git a/openspec/changes/lcd-readability-design-system/proposal.md b/openspec/changes/lcd-readability-design-system/proposal.md
@@ -19,9 +19,10 @@ The work runs in six phases, one pull request each, in this order:
    secondary text, surfaces, dividers and tracks become readable on both panels at once. The new
    token names are added next to the old ones.
 2. **Selection:** one selection component replaces the seven renderings. The main UI (tiles, popup
-   menus, page selector, profile switcher) marks the selection with a lighter fill; settings and
-   set-up flows mark it with a 3 px ring around the row or on the control. Every selection follows
-   the keypad-active state.
+   menus, page selector, profile switcher) and the menus of the profile page, Settings and About
+   mark the selection with a lighter fill; the rest of settings and the set-up flows mark it with a
+   3 px ring around the row or on the control. Every selection follows the keypad-active state,
+   except the page selector's current page, which keeps the fill after a touch.
 3. **Type roles:** help text and prose move from Space Mono to Poppins; Space Mono stays the face
    for values. Nothing is drawn below 22 px.
 4. **Structure:** shared title bar, setting row, menu row, key/value row, form dialog, bottom sheet

diff --git a/docs/adr/0020-two-selection-styles-fill-on-the-main-ui-ring-in-settings.md b/docs/adr/0020-two-selection-styles-fill-on-the-main-ui-ring-in-settings.md
@@ -20,14 +20,16 @@ and controls read as a list, apart.
 
 - **Main UI** (entity and group tiles, popup menus, the page selector, the profile switcher): the
   selected tile or row gets the selection fill and no ring; everything on the fill is drawn in the
-  primary text colour.
+  primary text colour. The menus of the profile page, Settings and About, whose rows open a page,
+  take the fill as well.
 - **Settings and set-up flows, and buttons everywhere:** the selected element gets a 3 px ring and
   no fill — around a row that is activated as a whole, on the control of a setting that holds a
   switch, slider or field.
 - An element never shows both styles. The current value of a choice is a check mark, never a
   selection style.
 - One shared, render-only component draws both styles; the selection still shows only while the
-  keypad is active (ADR 0007 is unchanged).
+  keypad is active (ADR 0007 is unchanged). The page selector is the one exception: its current page
+  keeps the fill after a touch, to mark which page is shown.
 
 ## Consequences
 

diff --git a/openspec/changes/lcd-readability-design-system/adr.md b/openspec/changes/lcd-readability-design-system/adr.md
@@ -29,8 +29,9 @@ All ADRs 0001 to 0018 are in force; none supersedes another. Relevant to this ch
 - docs/adr/0019-the-design-system-owns-colours-type-and-selection.md — the design system is the
   authority for colours, type roles and the selection look; QML takes them only from `Colors` and
   `Fonts`; one palette for both remotes.
-- docs/adr/0020-two-selection-styles-fill-on-the-main-ui-ring-in-settings.md — a fill on the main UI,
-  a ring in settings and on buttons, never both, drawn by one render-only component.
+- docs/adr/0020-two-selection-styles-fill-on-the-main-ui-ring-in-settings.md — a fill on the main UI
+  and in the profile, Settings and About menus, a ring elsewhere in settings and on buttons, never
+  both, drawn by one render-only component.
 
 ## Notes
 
